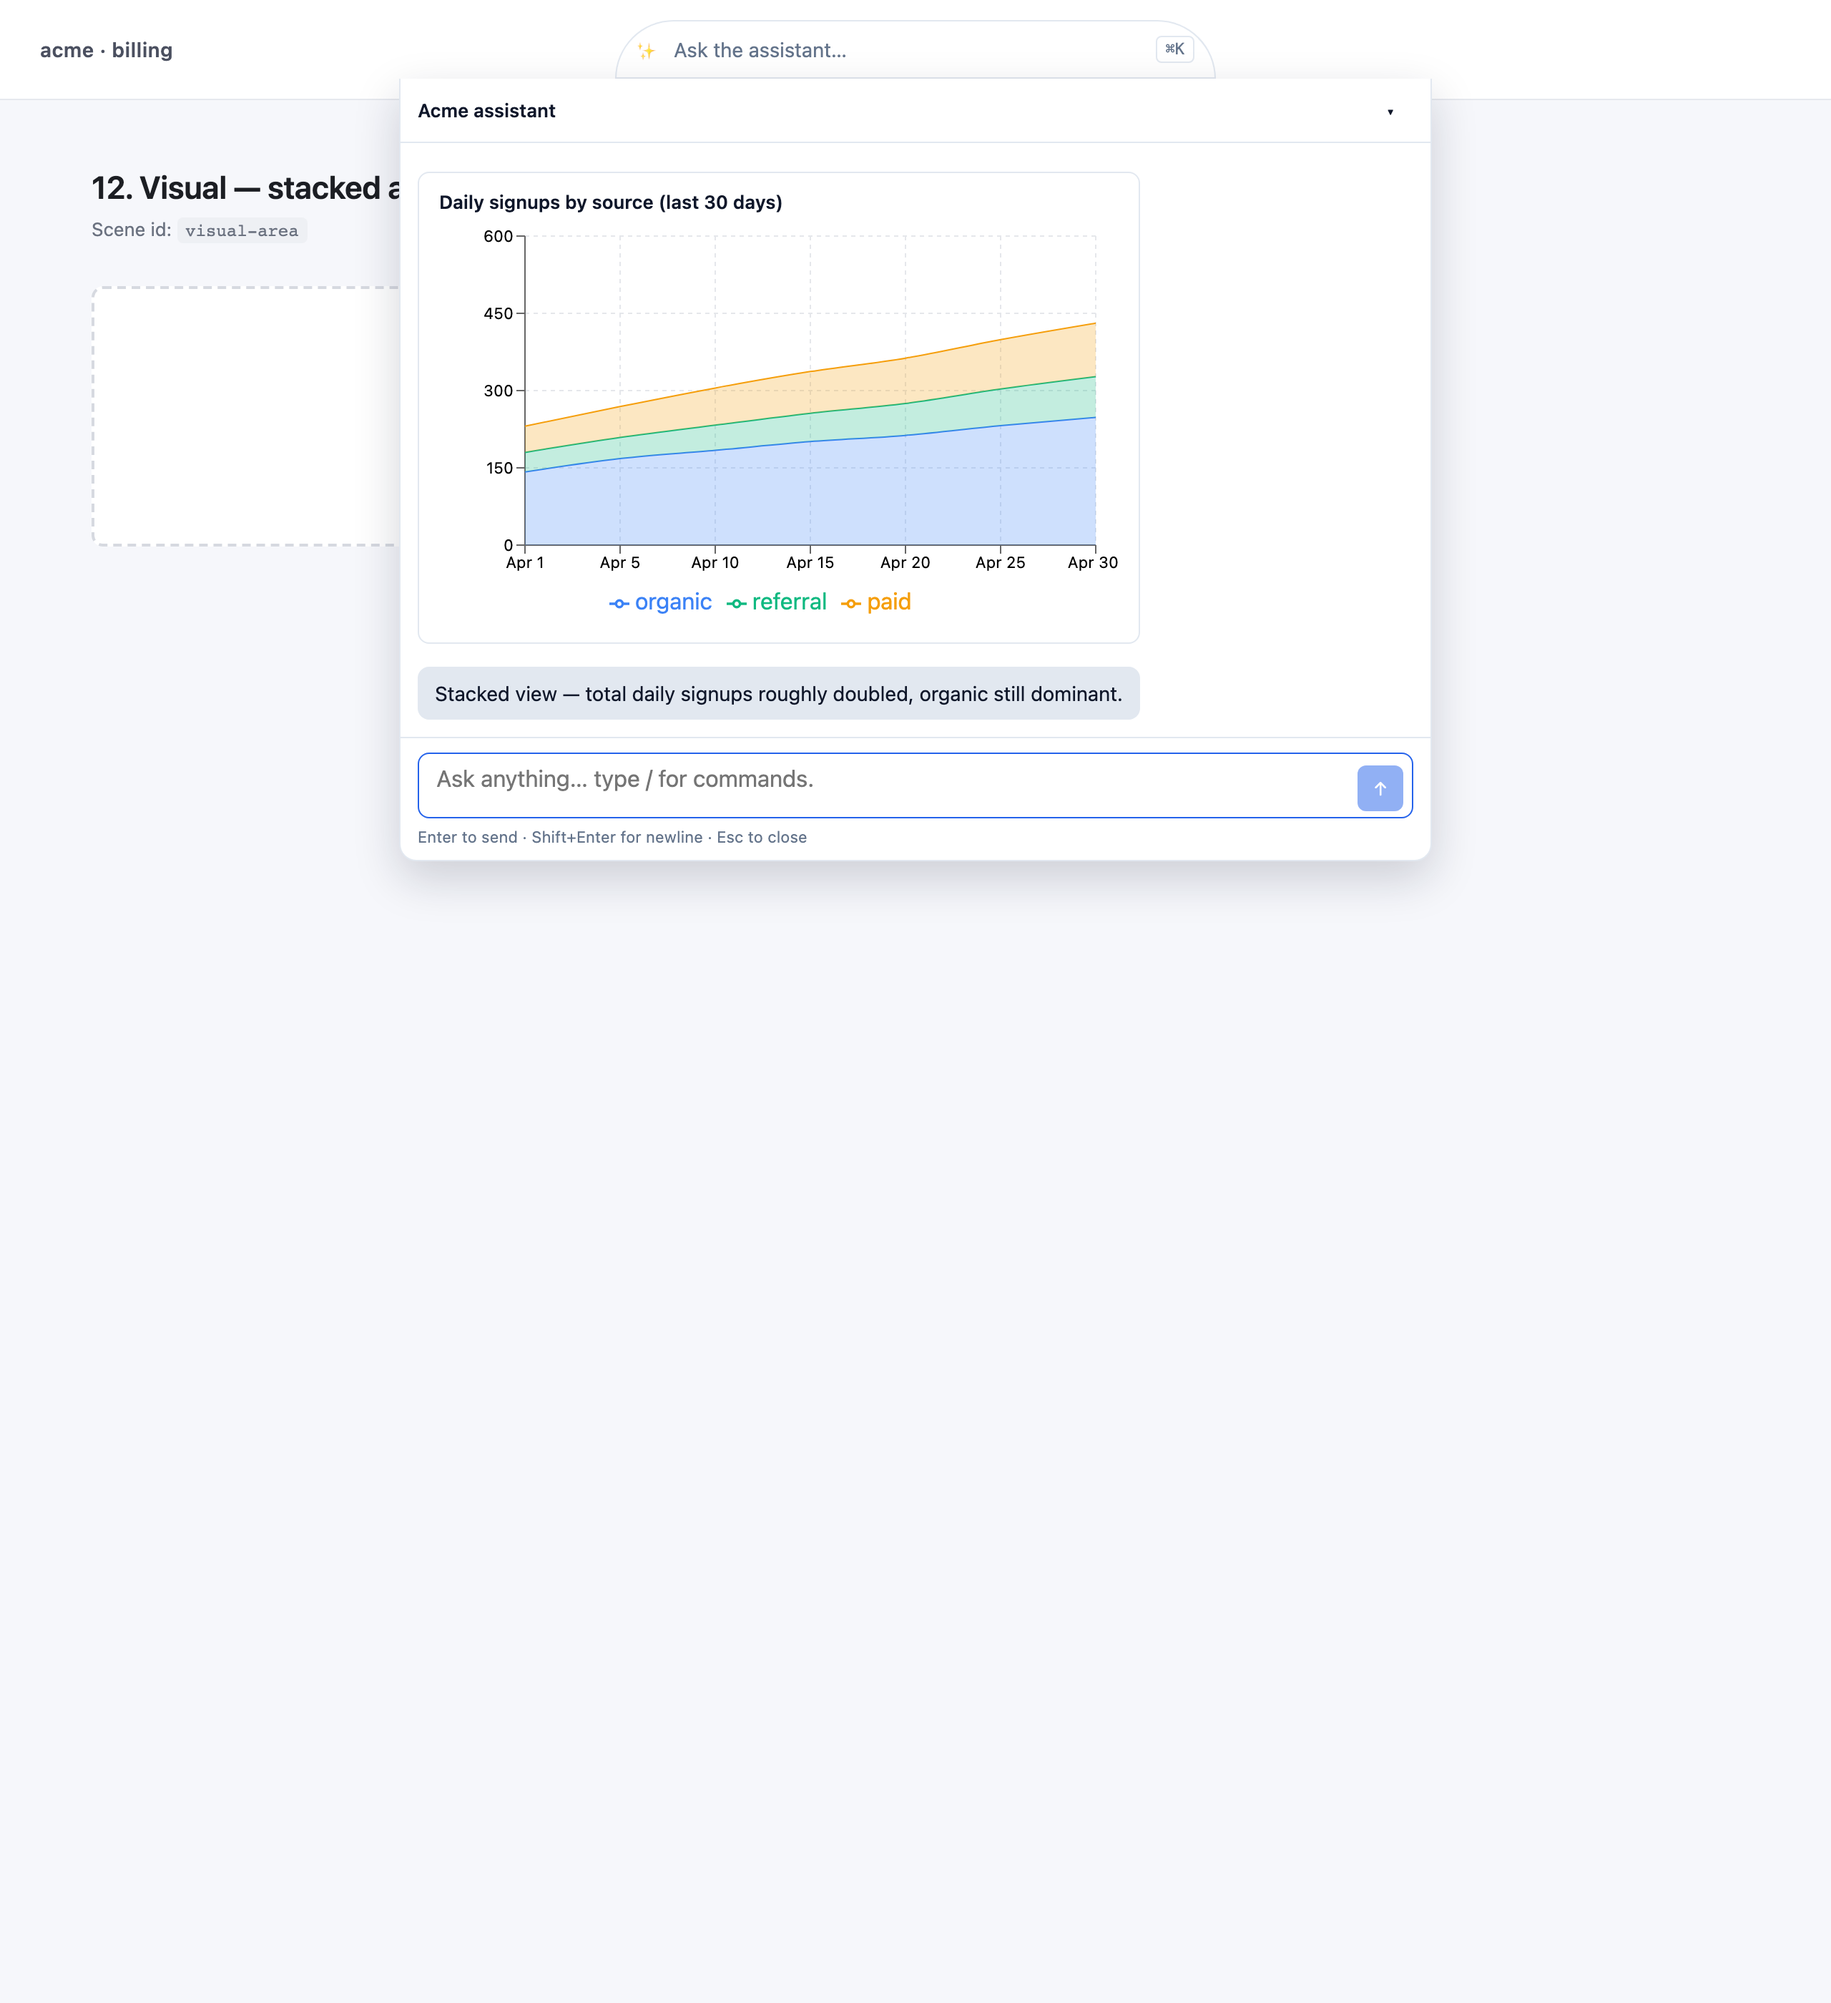
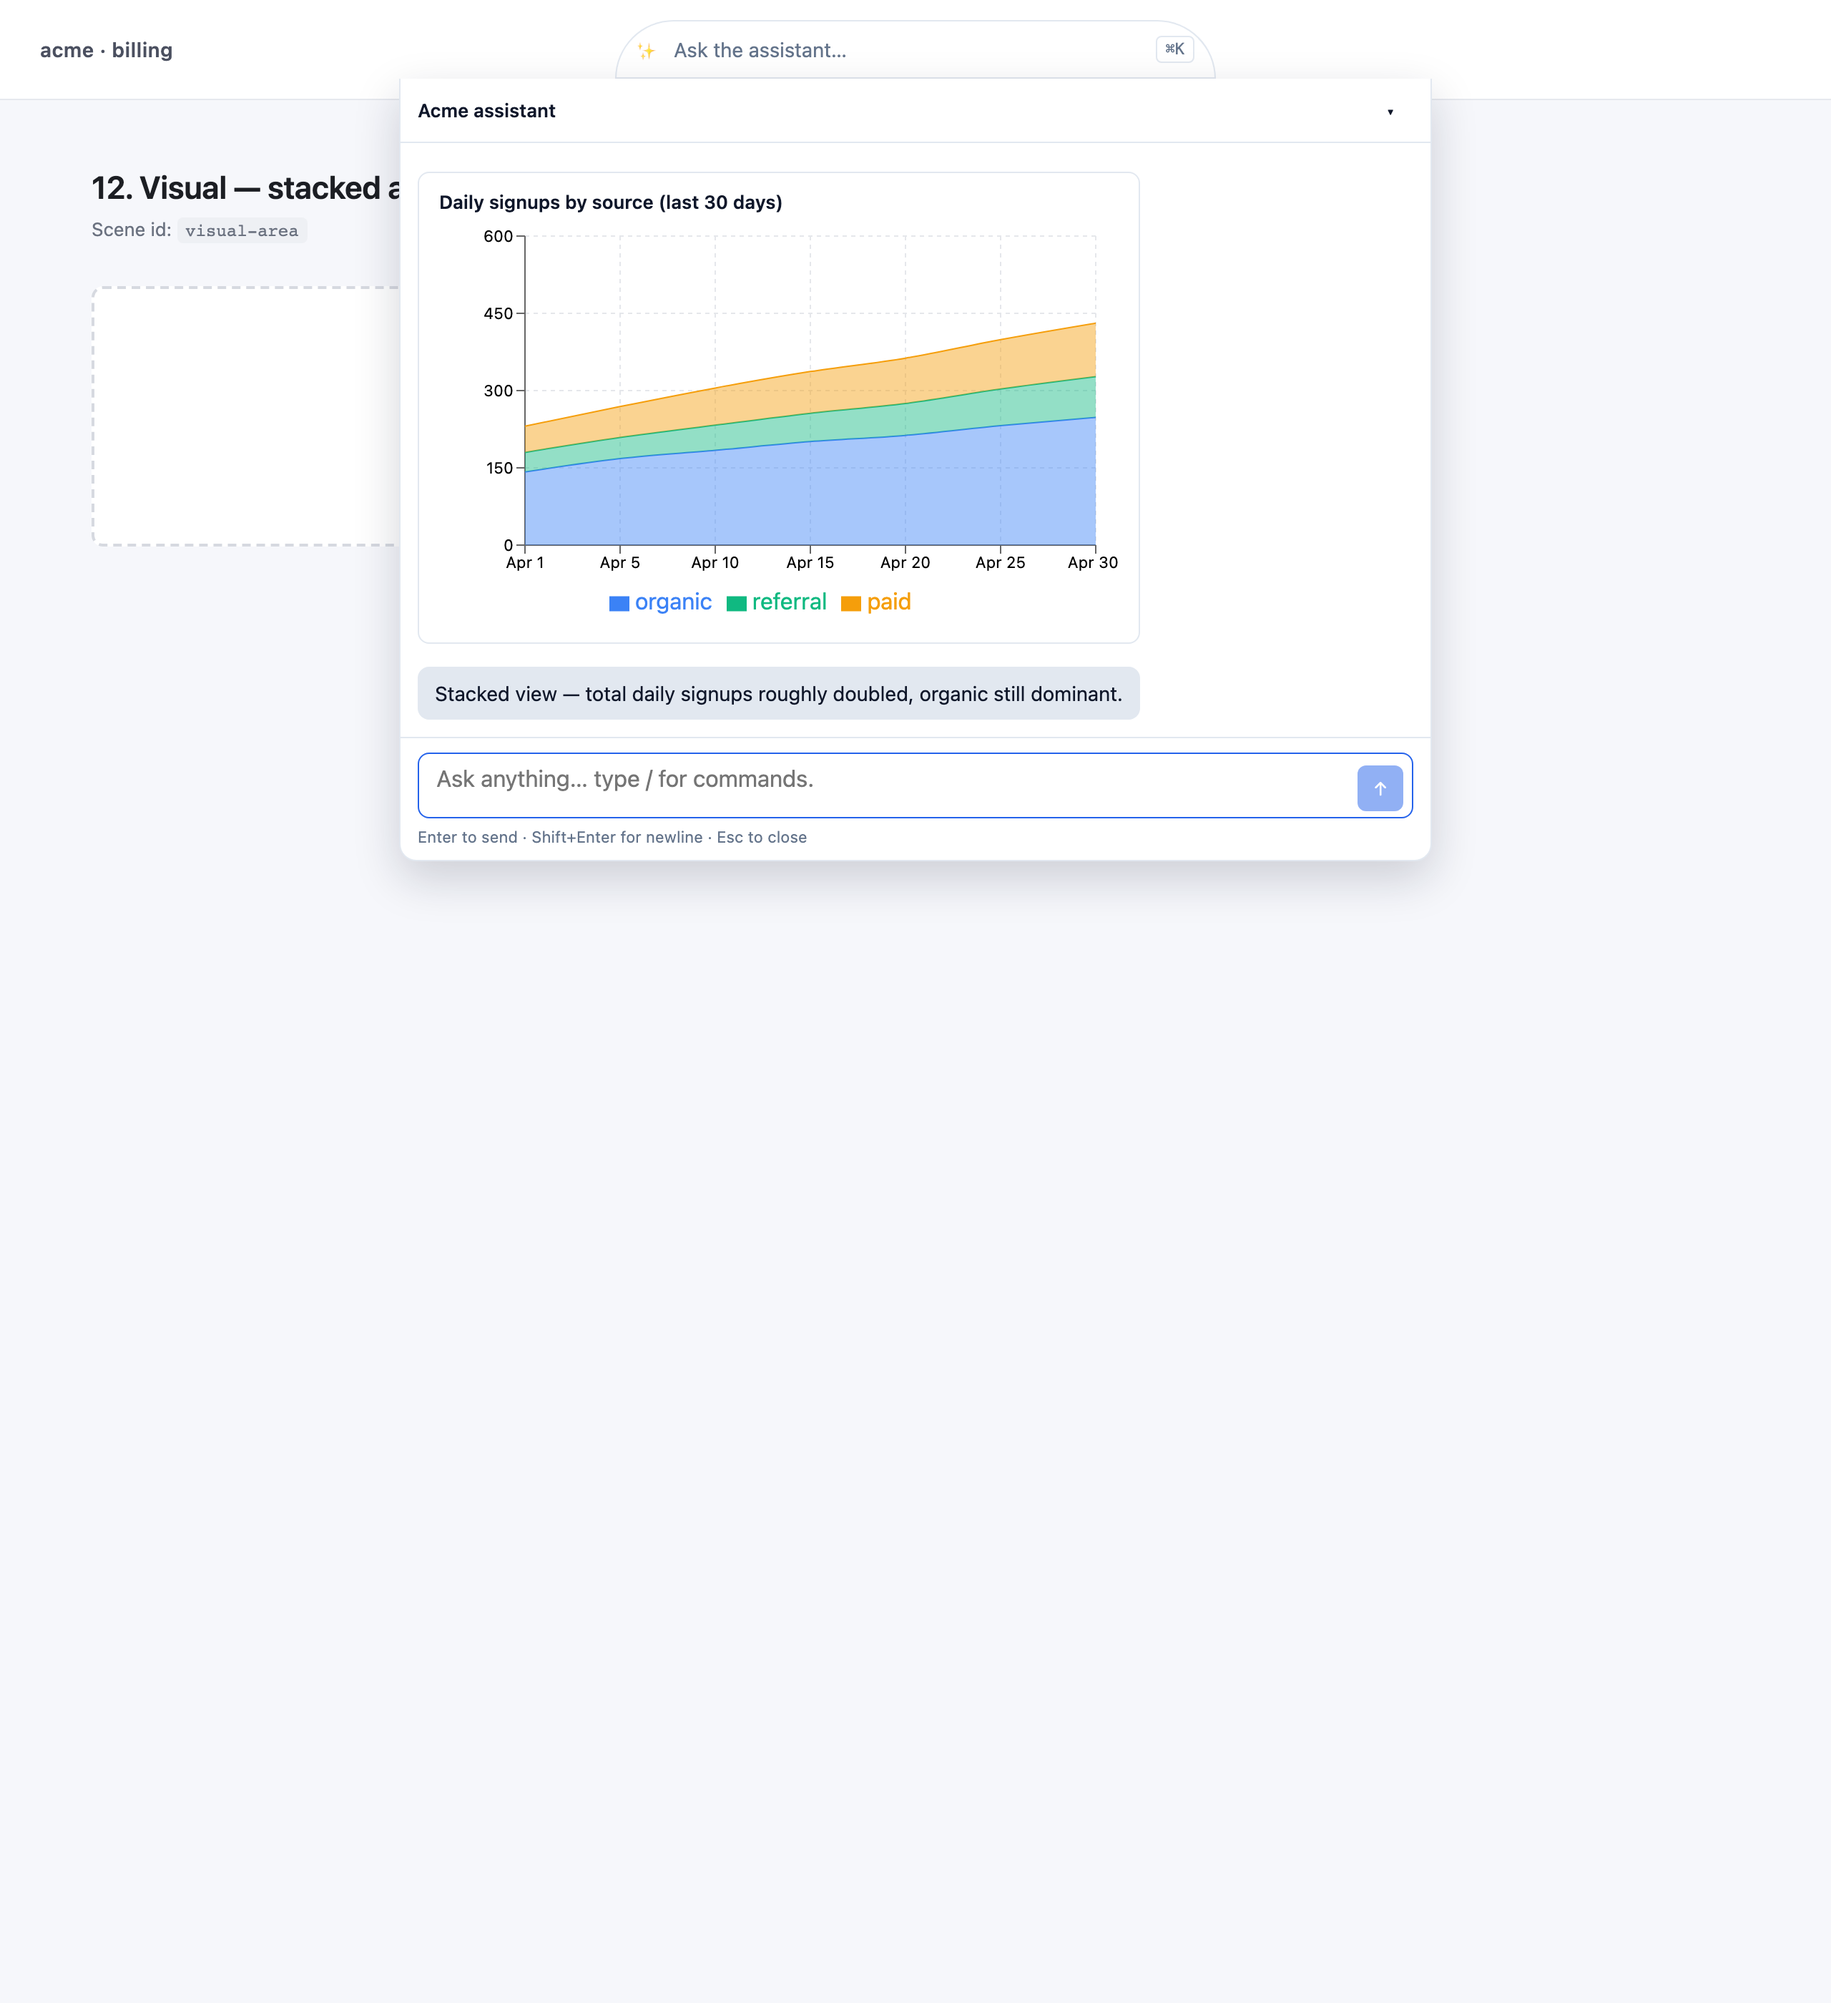
fix(visuals): area-chart legend + fill opacity (#17)
Two screenshot issues on `visual-area`:

1. Legend rendered series with the line-with-dot icon (Recharts'
   default for `<Area>`), which made a stacked-area chart read as
   a line chart in the legend.  Switch to `iconType="rect"` so the
   legend shows filled colored squares matching the area fills.

2. fillOpacity=0.25 made the three stacked bands wash out to
   indistinguishable pastels in a screenshot.  Bump to 0.45 — bands
   stay clearly differentiated while gridlines still bleed through.

Changed region(s): [[0.2812, 0.1554, 0.625, 0.2796]]

diff --git a/src/visuals/ChartVisual.tsx b/src/visuals/ChartVisual.tsx
@@ -126,7 +126,11 @@ function renderArea(spec: ChartSpec, colorFor: (i: number) => string) {
       <XAxis dataKey={spec.x_key} label={axisLabel(spec.x_label, 'bottom')} />
       <YAxis label={axisLabel(spec.y_label, 'left')} />
       <Tooltip />
-      <Legend />
+      {/* iconType="rect" so the legend shows filled colored squares
+          (the area fills) instead of Recharts' default line-with-dot
+          icon, which makes a stacked-area chart read as a line chart
+          in the legend. */}
+      <Legend iconType="rect" />
       {(spec.y_keys ?? []).map((k, i) => (
         <Area
           key={k}
@@ -134,7 +138,11 @@ function renderArea(spec: ChartSpec, colorFor: (i: number) => string) {
           dataKey={k}
           stroke={colorFor(i)}
           fill={colorFor(i)}
-          fillOpacity={0.25}
+          // 0.45 (was 0.25) — at 0.25 the stacked bands all read as
+          // washed-out pastels indistinguishable from each other in
+          // a screenshot.  0.45 keeps the bands clearly differentiated
+          // while still letting the gridlines bleed through.
+          fillOpacity={0.45}
           stackId={spec.stacked ? 'all' : undefined}
           // See Bar above for the rationale.
           isAnimationActive={false}
